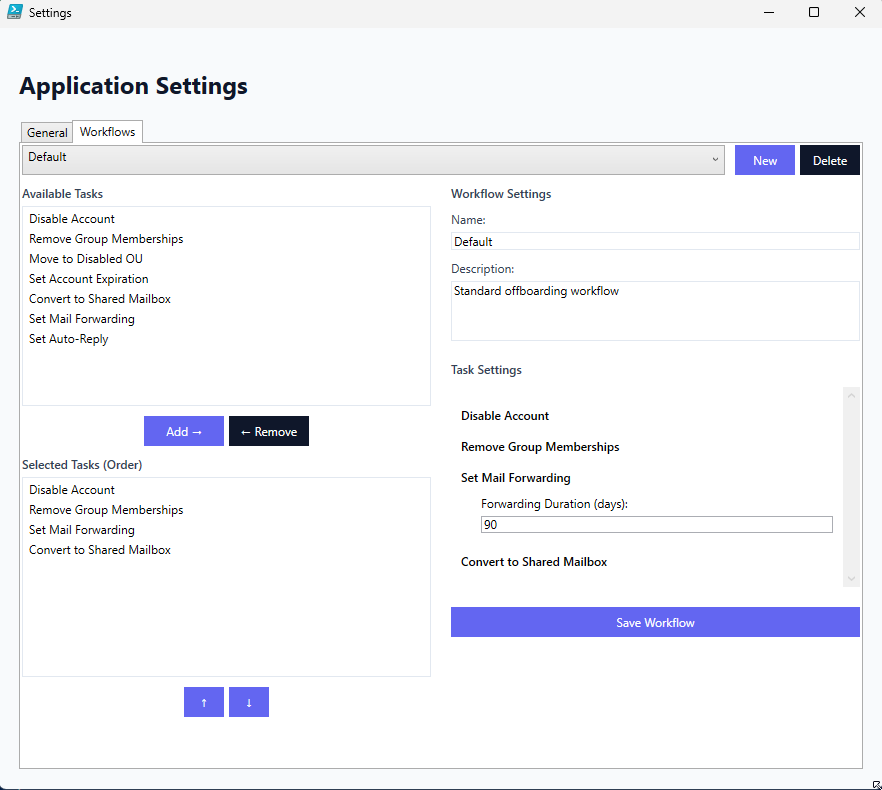
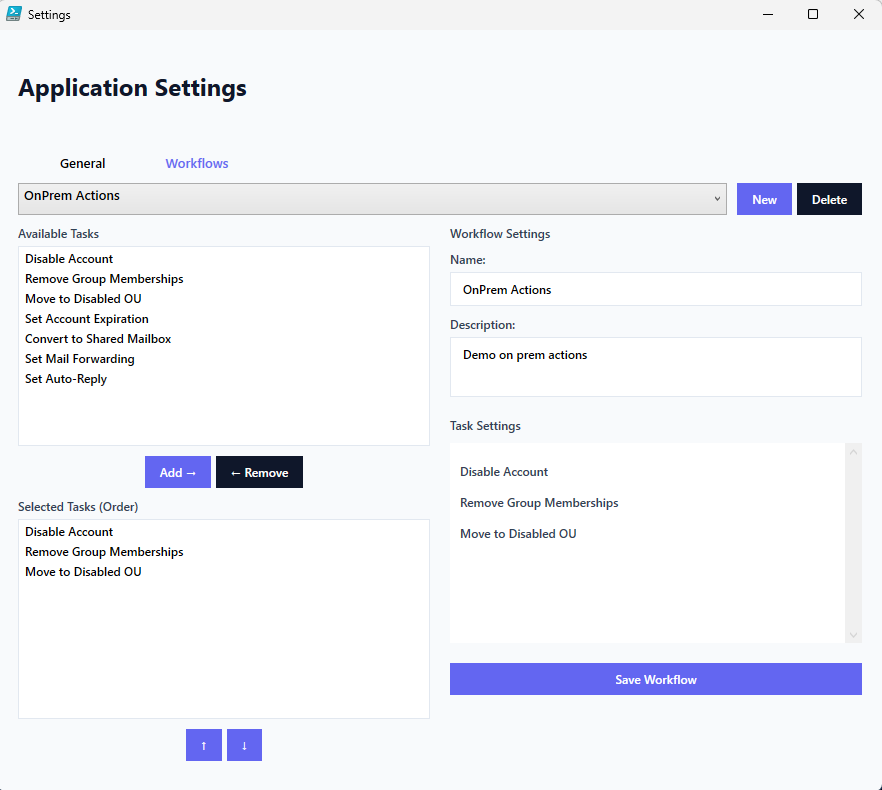
Styling update

diff --git a/XAML/Windows/SettingsWindow.xaml b/XAML/Windows/SettingsWindow.xaml
@@ -5,6 +5,93 @@
         Width="900"
         WindowStartupLocation="CenterScreen"
         Background="$($colors.Background)">
+        <Window.Resources>
+        <Style TargetType="TextBox">
+            <Setter Property="Padding" Value="10,8"/>
+            <Setter Property="Background" Value="$($colors.InputBg)"/>
+            <Setter Property="BorderBrush" Value="$($colors.BorderColor)"/>
+            <Setter Property="BorderThickness" Value="1"/>
+            <Setter Property="FontFamily" Value="Segoe UI"/>
+            <Setter Property="FontSize" Value="12"/>
+        </Style>
+        <Style TargetType="ListBox">
+            <Setter Property="Background" Value="$($colors.InputBg)"/>
+            <Setter Property="BorderBrush" Value="$($colors.BorderColor)"/>
+            <Setter Property="BorderThickness" Value="1"/>
+            <Setter Property="FontFamily" Value="Segoe UI"/>
+            <Setter Property="FontSize" Value="12"/>
+        </Style>
+        <Style TargetType="TextBlock">
+            <Setter Property="Foreground" Value="$($colors.Text)"/>
+            <Setter Property="FontFamily" Value="Segoe UI"/>
+            <Setter Property="FontSize" Value="12"/>
+        </Style>
+        <Style TargetType="Button">
+            <Setter Property="Background" Value="$($colors.Secondary)"/>
+            <Setter Property="Foreground" Value="$($colors.Text)"/>
+            <Setter Property="FontWeight" Value="SemiBold"/>
+            <Setter Property="Padding" Value="20,10"/>
+            <Setter Property="BorderThickness" Value="0"/>
+            <Setter Property="FontFamily" Value="Segoe UI"/>
+            <Setter Property="FontSize" Value="12"/>
+            <Style.Triggers>
+                <Trigger Property="IsMouseOver" Value="True">
+                    <Setter Property="Opacity" Value="0.9"/>
+                </Trigger>
+            </Style.Triggers>
+        </Style>
+        <Style TargetType="CheckBox">
+            <Style.Resources>
+                <SolidColorBrush x:Key="PrimaryHueMidBrush" Color="$($colors.Secondary)"/>
+            </Style.Resources>
+            <Setter Property="Foreground" Value="$($colors.Text)"/>
+            <Setter Property="FontFamily" Value="Segoe UI"/>
+            <Setter Property="FontSize" Value="12"/>
+            <Setter Property="Margin" Value="0,0,0,10"/>
+        </Style>
+        <Style TargetType="TabControl">
+            <Setter Property="Background" Value="Transparent"/>
+            <Setter Property="BorderThickness" Value="0"/>
+            <Setter Property="Padding" Value="0"/>
+        </Style>
+        <Style TargetType="TabItem">
+            <Setter Property="FontFamily" Value="Segoe UI"/>
+            <Setter Property="FontSize" Value="13"/>
+            <Setter Property="FontWeight" Value="SemiBold"/>
+            <Setter Property="Background" Value="Transparent"/>
+            <Setter Property="BorderThickness" Value="0"/>
+            <Setter Property="Margin" Value="0,0,4,0"/>
+            <Setter Property="Padding" Value="20,10"/>
+            <Setter Property="Template">
+                <Setter.Value>
+                    <ControlTemplate TargetType="TabItem">
+                        <Border Name="Border" 
+                                BorderThickness="0,0,0,2" 
+                                BorderBrush="Transparent"
+                                Background="Transparent"
+                                Margin="{TemplateBinding Margin}"
+                                Padding="{TemplateBinding Padding}">
+                            <ContentPresenter x:Name="ContentSite"
+                                    VerticalAlignment="Center"
+                                    HorizontalAlignment="Center"
+                                    ContentSource="Header"/>
+                        </Border>
+                        <ControlTemplate.Triggers>
+                            <Trigger Property="IsSelected" Value="True">
+                                <Setter TargetName="Border" Property="BorderBrush" Value="$($colors.Secondary)"/>
+                                <Setter Property="Foreground" Value="$($colors.Secondary)"/>
+                            </Trigger>
+                            <Trigger Property="IsMouseOver" Value="True">
+                                <Setter Property="Foreground" Value="$($colors.Secondary)"/>
+                            </Trigger>
+                        </ControlTemplate.Triggers>
+                    </ControlTemplate>
+                </Setter.Value>
+            </Setter>
+        </Style>
+        <!-- Converters -->
+        <BooleanToVisibilityConverter x:Key="BooleanToVisibilityConverter"/>
+    </Window.Resources>
     <Grid Margin="20">
         <Grid.RowDefinitions>
             <RowDefinition Height="Auto"/>
@@ -37,60 +124,54 @@
 
         <TabControl Grid.Row="1">
             <!-- General Settings Tab -->
-            <TabItem Header="General">
+            <TabItem Header="General"
+                Margin="10,10,10,10">
                 <ScrollViewer>
                     <StackPanel>
-                        <GroupBox Header="General Settings" 
-                                    Margin="0,0,0,15"
-                                    BorderBrush="$($colors.BorderColor)">
-                            <StackPanel Margin="10">
-                                <CheckBox Name="chkDemoMode" 
-                                            Content="Demo Mode" 
-                                            Foreground="$($colors.Text)"
-                                            Margin="0,0,0,10"/>
-                                <CheckBox Name="chkUseADModule" 
-                                            Content="Use AD Module" 
-                                            Foreground="$($colors.Text)"
-                                            Margin="0,0,0,10"/>
-                                <TextBlock Text="Default Domain:"
-                                            Foreground="$($colors.Text)"/>
-                                <TextBox Name="txtDefaultDomain" 
-                                            Background="$($colors.InputBg)"
-                                            BorderBrush="$($colors.BorderColor)"
-                                            Margin="0,5,0,15"/>
-                                <TextBlock Text="Auto-Reply Template:"
-                                            Foreground="$($colors.Text)"/>
-                                <TextBox Name="txtAutoReplyTemplate" 
-                                            TextWrapping="Wrap"
-                                            AcceptsReturn="True"
-                                            Height="100"
-                                            Background="$($colors.InputBg)"
-                                            BorderBrush="$($colors.BorderColor)"
-                                            Margin="0,5,0,15"/>
-                                <Button Name="btnSaveSettings" 
-                                        Content="Save Settings" 
-                                        Width="100" 
-                                        Height="30"
-                                        Background="$($colors.Secondary)"
-                                        Foreground="$($colors.InputBg)"
-                                        BorderThickness="0"
-                                        Margin="10,10,10,10"/>
-                                <Button Name="btnClose" 
-                                        Content="Close" 
-                                        Width="100"
-                                        Height="30"
-                                        Background="$($colors.Primary)"
-                                        Foreground="$($colors.InputBg)"
-                                        BorderThickness="0"
-                                        Margin="10,10,10,10"/>
-                            </StackPanel>
-                        </GroupBox>
+                        <CheckBox Name="chkDemoMode" 
+                                    Content="Demo Mode" 
+                                    Foreground="$($colors.Text)"
+                                    Margin="0,0,0,10"/>
+                        <CheckBox Name="chkUseADModule" 
+                                    Content="Use AD Module" 
+                                    Foreground="$($colors.Text)"
+                                    Margin="0,0,0,10"/>
+                        <TextBlock Text="Default Domain:"
+                                    Foreground="$($colors.Text)"/>
+                        <TextBox Name="txtDefaultDomain" 
+                                    Background="$($colors.InputBg)"
+                                    BorderBrush="$($colors.BorderColor)"
+                                    Margin="0,5,0,15"/>
+                        <TextBlock Text="Auto-Reply Template:"
+                                    Foreground="$($colors.Text)"/>
+                        <TextBox Name="txtAutoReplyTemplate" 
+                                    TextWrapping="Wrap"
+                                    AcceptsReturn="True"
+                                    Height="100"
+                                    Background="$($colors.InputBg)"
+                                    BorderBrush="$($colors.BorderColor)"
+                                    Margin="0,5,0,15"/>
+                        <Button Name="btnSaveSettings" 
+                                Content="Save Settings" 
+                                Padding="15,8"
+                                Background="$($colors.Secondary)"
+                                Foreground="$($colors.InputBg)"
+                                BorderThickness="0"
+                                Margin="0,10,0,0"/>
+                        <Button Name="btnClose" 
+                                Content="Close"
+                                Padding="15,8" 
+                                Background="$($colors.Primary)"
+                                Foreground="$($colors.InputBg)"
+                                BorderThickness="0"
+                                Margin="0,10,0,0"/>
                     </StackPanel>
                 </ScrollViewer>
             </TabItem>
 
             <!-- Workflows Tab -->
-            <TabItem Header="Workflows">
+            <TabItem Header="Workflows"
+                    Margin="10,10,10,10">
                 <StackPanel>
                     <Grid>
                         <Grid.RowDefinitions>
@@ -111,16 +192,14 @@
                                             Orientation="Horizontal">
                                     <Button Name="btnNewWorkflow" 
                                             Content="New" 
-                                            Width="60"
-                                            Height="30"
+                                            Padding="15,8" 
                                             Background="$($colors.Secondary)"
                                             Foreground="$($colors.InputBg)"
                                             BorderThickness="0"
                                             Margin="0,0,5,0"/>
                                     <Button Name="btnDeleteWorkflow" 
                                             Content="Delete" 
-                                            Width="60"
-                                            Height="30"
+                                            Padding="15,8" 
                                             Background="$($colors.Primary)"
                                             Foreground="$($colors.InputBg)"
                                             BorderThickness="0"/>
@@ -158,16 +237,14 @@
                                             Margin="0,10">
                                     <Button Name="btnAddTask" 
                                             Content="Add &#8594;" 
-                                            Width="80"
-                                            Height="30"
+                                            Padding="15,8" 
                                             Background="$($colors.Secondary)"
                                             Foreground="$($colors.InputBg)"
                                             BorderThickness="0"
                                             Margin="0,0,5,0"/>
                                     <Button Name="btnRemoveTask" 
                                             Content="&#8592; Remove" 
-                                            Width="80"
-                                            Height="30"
+                                            Padding="15,8" 
                                             Background="$($colors.Primary)"
                                             Foreground="$($colors.InputBg)"
                                             BorderThickness="0"/>
@@ -193,16 +270,14 @@
                                             Margin="0,10,0,0">
                                     <Button Name="btnMoveUp" 
                                             Content="&#8593;" 
-                                            Width="40"
-                                            Height="30"
+                                            Padding="15,8" 
                                             Background="$($colors.Secondary)"
                                             Foreground="$($colors.InputBg)"
                                             BorderThickness="0"
                                             Margin="0,0,5,0"/>
                                     <Button Name="btnMoveDown" 
                                             Content="&#8595;" 
-                                            Width="40"
-                                            Height="30"
+                                            Padding="15,8" 
                                             Background="$($colors.Secondary)"
                                             Foreground="$($colors.InputBg)"
                                             BorderThickness="0"/>
@@ -253,7 +328,7 @@
                                 <!-- Save Button for Workflow Tab -->
                                 <Button Name="btnSaveWorkflow"
                                         Content="Save Workflow"
-                                        Height="30"
+                                        Padding="15,8" 
                                         Background="$($colors.Secondary)"
                                         Foreground="$($colors.InputBg)"
                                         BorderThickness="0"
